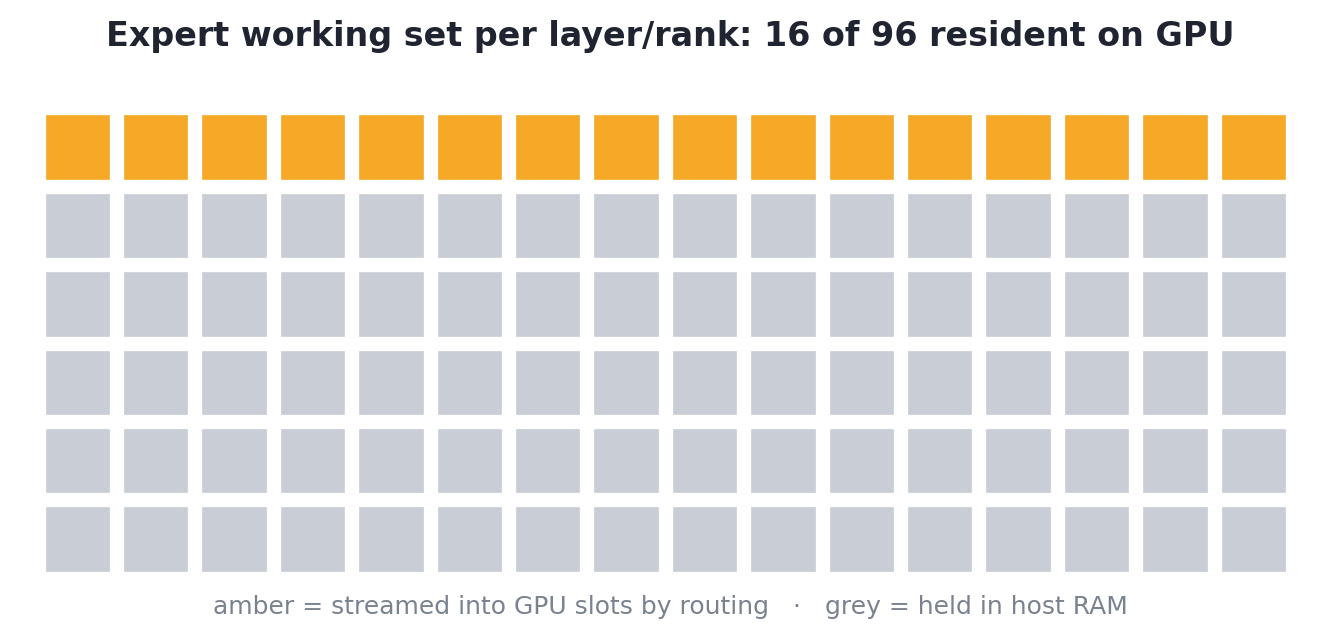
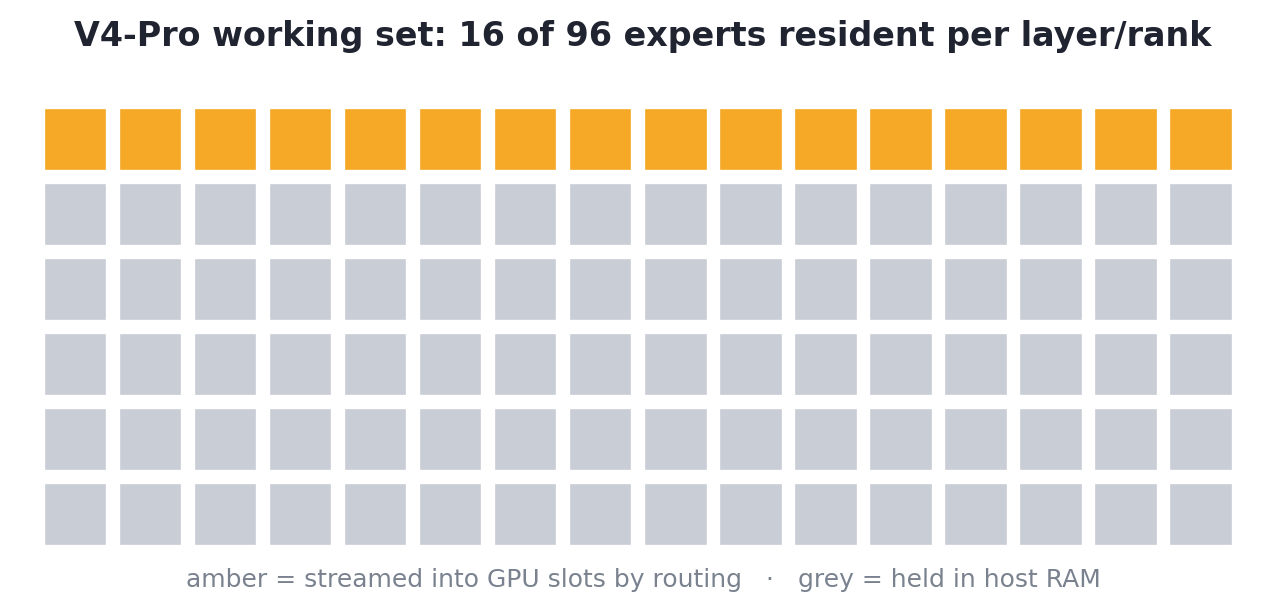
Trim README to essentials; add V2-vs-V4 comparison + tuning charts

diff --git a/assets/make_charts.py b/assets/make_charts.py
@@ -1,11 +1,10 @@
 # SPDX-License-Identifier: Apache-2.0
 """Generate Sluice's result charts (matplotlib).
 
-Data: DeepSeek-V4-Pro (FP8), 4xH100, EP=4.
-  measured  — GPU weight memory at load 9.49 GiB; KV cache 24.4 GiB @ util 0.45;
-              16 of 96 local experts resident per layer.
-  estimated — per-rank expert shard ~191 GiB and resident slot cache ~32 GiB,
-              derived from the 805 GiB checkpoint (mostly experts) / 4 ranks.
+Measured (4xH100): V4-Pro GPU weights at load 9.49 GiB; KV 24.4 GiB @ util 0.45;
+16 of 96 local experts resident. V2-Lite (BF16, 1 GPU) ~31 GiB, fits natively.
+Estimated from the 805 GiB checkpoint: V4-Pro per-rank expert shard ~191 GiB,
+16-slot cache ~32 GiB, ~2 GiB per expert.
 
     python assets/make_charts.py
 """
@@ -14,48 +13,51 @@ import matplotlib
 
 matplotlib.use("Agg")
 import matplotlib.pyplot as plt
-from matplotlib.patches import Rectangle
+from matplotlib.patches import Patch, Rectangle
 
-TEAL = "#0DB8AB"
-INDIGO = "#4338CA"
-AMBER = "#F5A926"
-GREY = "#C9CED6"
-INK = "#1F2430"
-H100 = 80  # GiB
+TEAL, INDIGO, AMBER, GREY, INK = "#0DB8AB", "#4338CA", "#F5A926", "#C9CED6", "#1F2430"
+RED, GREEN = "#B0152F", "#0B7A33"
+H100 = 80
 
 
-def memory_chart(path):
-    fig, ax = plt.subplots(figsize=(7.2, 4.6), dpi=200)
-
-    # Without offload: non-expert weights + full per-rank expert shard.
-    ax.bar(0, 9.5, color=TEAL, width=0.6)
-    ax.bar(0, 191, bottom=9.5, color=GREY, width=0.6, label="expert shard (est.)")
-
-    # With Sluice: weights + resident slot cache + KV.
-    ax.bar(1, 9.5, color=TEAL, width=0.6, label="non-expert weights (meas. 9.5)")
-    ax.bar(1, 32, bottom=9.5, color=INDIGO, width=0.6, label="resident experts (est. 32)")
-    ax.bar(1, 24.4, bottom=41.5, color=AMBER, width=0.6, label="KV cache (meas. 24.4)")
+def comparison_chart(path):
+    fig, ax = plt.subplots(figsize=(7.8, 4.7), dpi=200)
+    x = [0, 1, 2]
+    # V2-Lite: fits natively (single GPU).
+    ax.bar(0, 31, color=TEAL, width=0.62)
+    # V4-Pro without offload: weights + full expert shard -> OOM.
+    ax.bar(1, 9.5, color=TEAL, width=0.62)
+    ax.bar(1, 191, bottom=9.5, color=GREY, width=0.62)
+    # V4-Pro with Sluice: weights + resident slots + KV -> fits.
+    ax.bar(2, 9.5, color=TEAL, width=0.62)
+    ax.bar(2, 32, bottom=9.5, color=INDIGO, width=0.62)
+    ax.bar(2, 24.4, bottom=41.5, color=AMBER, width=0.62)
 
     ax.axhline(H100, ls="--", lw=1.6, color="#E0457B")
-    ax.text(1.46, H100 + 3, "H100 = 80 GiB", color="#E0457B", ha="right", fontsize=9)
+    ax.text(2.52, H100 + 3, "H100 = 80 GiB", color="#E0457B", ha="right", fontsize=9)
+    ax.annotate("✓ fits", (0, 35), ha="center", color=GREEN, fontweight="bold", fontsize=10)
+    ax.annotate("✗ OOM\n~200 GiB", (1, 150), ha="center", va="center", color="white",
+                fontweight="bold", fontsize=12)
+    ax.annotate("✓ fits\n~66 GiB", (2, 70), ha="center", va="bottom", color=GREEN,
+                fontweight="bold", fontsize=10)
 
-    ax.annotate("✗ OOM\n~200 GiB needed", (0, 120), ha="center", va="center",
-                fontsize=11, color="#B0152F", fontweight="bold")
-    ax.annotate("✓ fits\n~66 GiB", (1, 70), ha="center", va="bottom",
-                fontsize=11, color="#0B7A33", fontweight="bold")
-
-    ax.set_xticks([0, 1])
-    ax.set_xticklabels(["Without offload", "With Sluice"], fontsize=11)
-    ax.set_ylabel("GPU memory per rank (GiB)", fontsize=10)
+    ax.set_xticks(x)
+    ax.set_xticklabels(["V2-Lite\n(BF16, 1 GPU)", "V4-Pro\n(no offload)",
+                        "V4-Pro\n+ Sluice"], fontsize=10)
+    ax.set_ylabel("GPU memory needed (GiB)", fontsize=10)
     ax.set_ylim(0, 215)
-    ax.set_title("DeepSeek-V4-Pro (FP8), EP=4 — fitting the experts",
-                 fontsize=12, fontweight="bold", color=INK)
-    ax.legend(fontsize=8, loc="upper right", frameon=False)
+    ax.set_title("Why offload: V2-Lite fits a GPU; V4-Pro's experts don't",
+                 fontsize=12.5, fontweight="bold", color=INK)
+    ax.legend(handles=[
+        Patch(color=TEAL, label="non-expert weights"),
+        Patch(color=GREY, label="experts, all resident (est.)"),
+        Patch(color=INDIGO, label="experts, Sluice cache (est.)"),
+        Patch(color=AMBER, label="KV cache"),
+    ], fontsize=8, loc="upper left", frameon=False, ncol=1)
     for s in ("top", "right"):
         ax.spines[s].set_visible(False)
-    fig.text(0.5, -0.01,
-             "weights & KV measured on 4×H100; expert shard & slot cache "
-             "estimated from the 805 GiB checkpoint",
+    fig.text(0.5, -0.02, "V4 figures per rank at EP=4 · weights & KV measured · "
+             "expert shard & cache estimated from the 805 GiB checkpoint",
              ha="center", fontsize=7.5, color="#7A828F")
     fig.tight_layout()
     fig.savefig(path, bbox_inches="tight", facecolor="white")
@@ -63,26 +65,49 @@ def memory_chart(path):
 
 
 def residency_chart(path):
-    cols, rows, resident = 16, 6, 16  # 96 local experts, 16 resident
-    fig, ax = plt.subplots(figsize=(7.2, 3.1), dpi=200)
+    cols, rows, resident = 16, 6, 16
+    fig, ax = plt.subplots(figsize=(7.2, 3.0), dpi=200)
     n = 0
     for r in range(rows):
         for c in range(cols):
-            on = n < resident
-            ax.add_patch(Rectangle(
-                (c, rows - 1 - r), 0.86, 0.86,
-                facecolor=AMBER if on else GREY,
-                edgecolor="white", lw=1.2))
+            ax.add_patch(Rectangle((c, rows - 1 - r), 0.86, 0.86,
+                         facecolor=AMBER if n < resident else GREY,
+                         edgecolor="white", lw=1.2))
             n += 1
     ax.set_xlim(-0.3, cols + 0.3)
     ax.set_ylim(-0.3, rows + 0.3)
     ax.set_aspect("equal")
     ax.axis("off")
-    ax.set_title("Expert working set per layer/rank: 16 of 96 resident on GPU",
-                 fontsize=12, fontweight="bold", color=INK, pad=12)
-    fig.text(0.5, 0.02,
-             "amber = streamed into GPU slots by routing   ·   grey = held in host RAM",
-             ha="center", fontsize=9, color="#7A828F")
+    ax.set_title("V4-Pro working set: 16 of 96 experts resident per layer/rank",
+                 fontsize=12, fontweight="bold", color=INK, pad=10)
+    fig.text(0.5, 0.02, "amber = streamed into GPU slots by routing   ·   "
+             "grey = held in host RAM", ha="center", fontsize=9, color="#7A828F")
+    fig.tight_layout()
+    fig.savefig(path, bbox_inches="tight", facecolor="white")
+    print("wrote", path)
+
+
+def tradeoff_chart(path):
+    per_expert = 191 / 96  # GiB
+    slots = [8, 16, 24, 32, 48, 64, 96]
+    cache = [s * per_expert for s in slots]
+    fig, ax = plt.subplots(figsize=(7.2, 4.0), dpi=200)
+    ax.plot(slots, cache, "-o", color=INDIGO, lw=2.2, label="resident cache (GiB)")
+    ax.axhline(46, ls="--", lw=1.5, color="#E0457B")
+    ax.text(95, 48, "VRAM left for experts after weights+KV (~46 GiB)",
+            ha="right", color="#E0457B", fontsize=8.5)
+    ax.scatter([16], [32], s=120, color=AMBER, zorder=5, edgecolor="white")
+    ax.annotate("validated: 16 slots ≈ 32 GiB", (16, 32), (24, 70),
+                arrowprops=dict(arrowstyle="->", color=INK), fontsize=9, color=INK)
+    ax.set_xlabel("SLUICE_SLOTS (resident experts per layer/rank)", fontsize=10)
+    ax.set_ylabel("GPU cache size (GiB)", fontsize=10)
+    ax.set_title("Tuning the cache (V4-Pro, EP=4 — projected)",
+                 fontsize=12, fontweight="bold", color=INK)
+    ax.legend(fontsize=9, frameon=False)
+    for s in ("top", "right"):
+        ax.spines[s].set_visible(False)
+    fig.text(0.5, -0.02, "~2 GiB per expert; raise slots until a step's experts "
+             "fit, lower to save VRAM", ha="center", fontsize=7.5, color="#7A828F")
     fig.tight_layout()
     fig.savefig(path, bbox_inches="tight", facecolor="white")
     print("wrote", path)
@@ -92,5 +117,6 @@ if __name__ == "__main__":
     import os
 
     here = os.path.dirname(os.path.abspath(__file__))
-    memory_chart(os.path.join(here, "chart-memory.png"))
+    comparison_chart(os.path.join(here, "chart-comparison.png"))
     residency_chart(os.path.join(here, "chart-residency.png"))
+    tradeoff_chart(os.path.join(here, "chart-tradeoff.png"))

diff --git a/README.md b/README.md
@@ -1,37 +1,20 @@
 <p align="center">
-  <img src="assets/sluice-icon.png" alt="Sluice" width="130">
+  <img src="assets/sluice-icon.png" alt="Sluice" width="120">
 </p>
 
 <h1 align="center">Sluice</h1>
 
-<p align="center"><b>Routing-aware MoE expert offloading for vLLM.</b></p>
-
 <p align="center">
-  Run Mixture-of-Experts models whose experts don't fit in VRAM — like
-  <b>DeepSeek-V4</b> — by keeping the experts in host RAM and streaming only the
-  router-selected ones into a small GPU cache each step. A vLLM
-  <b>plugin</b>, not a fork.
+  <b>Routing-aware MoE expert offloading for vLLM</b> — a plugin, not a fork.
 </p>
 
 <p align="center">
-  <a href="#quickstart">Quickstart</a> ·
-  <a href="#deploy-deepseek-v4">Deploy V4</a> ·
-  <a href="#results">Results</a> ·
-  <a href="docs/ARCHITECTURE.md">How it works</a>
+  Run Mixture-of-Experts models whose experts exceed GPU memory — like
+  <b>DeepSeek-V4</b> — by keeping experts in host RAM and streaming only the
+  router's picks into a small per-layer GPU cache each step.
 </p>
 
----
-
-## Why
-
-In an MoE layer each token is routed to a few of many experts, but the kernel
-needs every selected expert resident. The experts dominate the weight budget and
-often exceed GPU memory — DeepSeek-V4 is ~805 GiB, still ~191 GiB per rank at
-EP=4, far past an 80 GiB H100. vLLM's `--cpu-offload-gb` is static and
-routing-blind. Sluice keeps experts in host RAM and pages the router's picks
-into a small per-layer GPU cache, LRU-evicting the rest.
-
-<p align="center"><img src="assets/chart-memory.png" alt="GPU memory: without offload OOMs, with Sluice fits" width="640"></p>
+<p align="center"><img src="assets/chart-comparison.png" alt="V2-Lite fits a GPU; V4-Pro's experts don't, until Sluice" width="680"></p>
 
 ## Quickstart
 
@@ -40,53 +23,35 @@ pip install -e .          # into an environment that already has vLLM
 SLUICE_SLOTS=16 python examples/run_dsv4_ep4.py
 ```
 
-`SLUICE_SLOTS` is the number of resident experts per layer, per rank. Unset →
-Sluice is completely inert and vLLM behaves normally.
+`SLUICE_SLOTS` = resident experts per layer, per rank. Unset → Sluice is inert.
 
 ## Results
 
-Validated on 8×H100, via the pip plugin on **stock vLLM** (no fork, no patched
-source).
+Stock vLLM, no fork. **V2-Lite** offloaded output is **bit-identical** to the
+resident baseline (greedy, token ids). **V4-Pro** (FP8, EP=4) loads with just
+**9.49 GiB** of GPU weights and answers correctly:
 
-- **Correctness** — DeepSeek-V2-Lite offloaded output is **bit-identical** to
-  the resident baseline (greedy decode, token ids compared exactly).
-- **Scale** — DeepSeek-V4-Pro (FP8, EP=4) loads with just **9.49 GiB** of GPU
-  weights and generates coherently:
-  > *The capital of France is* → **Paris. The capital of Germany is Berlin. The capital of Italy is Rome. The capital of Japan is Tokyo.**
+> *The capital of France is* → **Paris. The capital of Germany is Berlin. The capital of Italy is Rome. The capital of Japan is Tokyo.**
 
 <p align="center"><img src="assets/chart-residency.png" alt="16 of 96 experts resident per layer/rank" width="560"></p>
 
 ## Deploy DeepSeek-V4
 
-No fork needed: V4 model support is already upstream in vLLM; the offloading is
-this plugin.
-
 ```bash
-SLUICE_SLOTS=16 PYTORCH_CUDA_ALLOC_CONF=expandable_segments:True \
-vllm serve deepseek-ai/DeepSeek-V4-Pro \
+SLUICE_SLOTS=16 vllm serve deepseek-ai/DeepSeek-V4-Pro \
   --tensor-parallel-size 4 --enable-expert-parallel \
   --moe-backend marlin --kv-cache-dtype fp8 \
-  --gpu-memory-utilization 0.45 --enforce-eager --max-model-len 512 --trust-remote-code
+  --gpu-memory-utilization 0.45 --enforce-eager --trust-remote-code
 ```
 
-`marlin` honors `expert_map` (FlashInfer doesn't); `kv-cache-dtype fp8` is
-required by V4; the low `gpu-memory-utilization` leaves VRAM for the slot caches,
-which vLLM can't see when it sizes the KV cache. Offline example:
-[`examples/run_dsv4_ep4.py`](examples/run_dsv4_ep4.py).
+Needs an `expert_map`-honoring backend (`marlin` / `triton`, **not** FlashInfer);
+the low `--gpu-memory-utilization` leaves VRAM for the slot caches. Design,
+load/forward paths, and the gotchas: **[docs/ARCHITECTURE.md](docs/ARCHITECTURE.md)**.
 
-## Caveats
+---
 
-- Needs a backend that applies `expert_map` — **marlin** (NVFP4/FP8) or
-  **triton** (unquantized). FlashInfer-style backends ignore it.
-- Lower `gpu_memory_utilization` so the KV cache and slot caches both fit.
-- Monkeypatches an internal vLLM factory and relies on the modular
-  `quant_method.apply` signature — pin a known-good vLLM version.
-
-See [docs/ARCHITECTURE.md](docs/ARCHITECTURE.md) for the design, the load/forward
-paths, and the gotchas behind those caveats. Contributions welcome —
-[CONTRIBUTING.md](CONTRIBUTING.md).
-
-## License
-
-Apache-2.0. Built on and for [vLLM](https://github.com/vllm-project/vllm). Icon
-is original artwork.
+<p align="center">
+  Apache-2.0 · built on <a href="https://github.com/vllm-project/vllm">vLLM</a> ·
+  <a href="docs/ARCHITECTURE.md">Architecture</a> ·
+  <a href="CONTRIBUTING.md">Contributing</a>
+</p>

diff --git a/docs/ARCHITECTURE.md b/docs/ARCHITECTURE.md
@@ -182,6 +182,12 @@ so the startup profiling run may briefly overflow and log a warning — expected
 and harmless (profiling output is discarded). If the warning appears during real
 decode, raise the slot count.
 
+The cache grows ~linearly with the slot count (≈ 2 GiB per expert for V4-Pro), so
+the upper bound is whatever VRAM is left after weights and KV. Raise slots until a
+step's experts fit; lower to reclaim VRAM.
+
+<p align="center"><img src="../assets/chart-tradeoff.png" alt="GPU cache size vs SLUICE_SLOTS" width="620"></p>
+
 ## 9. Limitations & roadmap
 
 - Monkeypatches an internal factory and relies on the modular